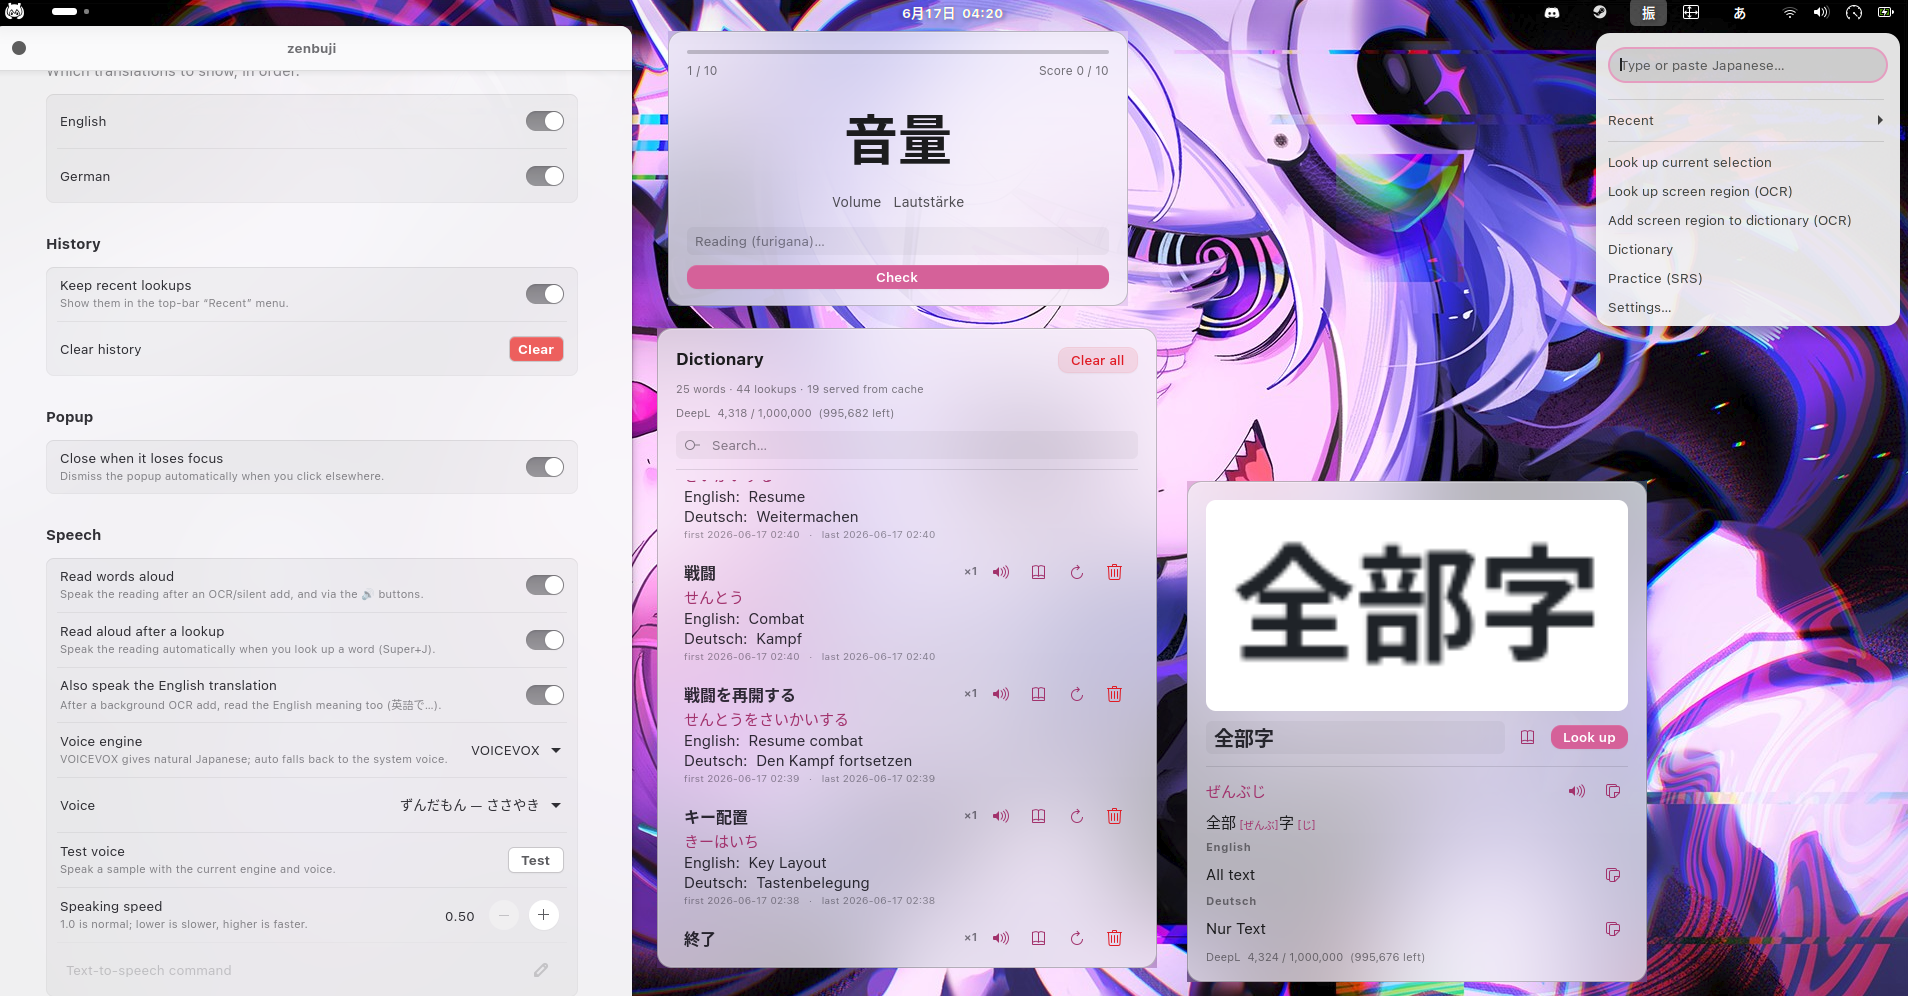
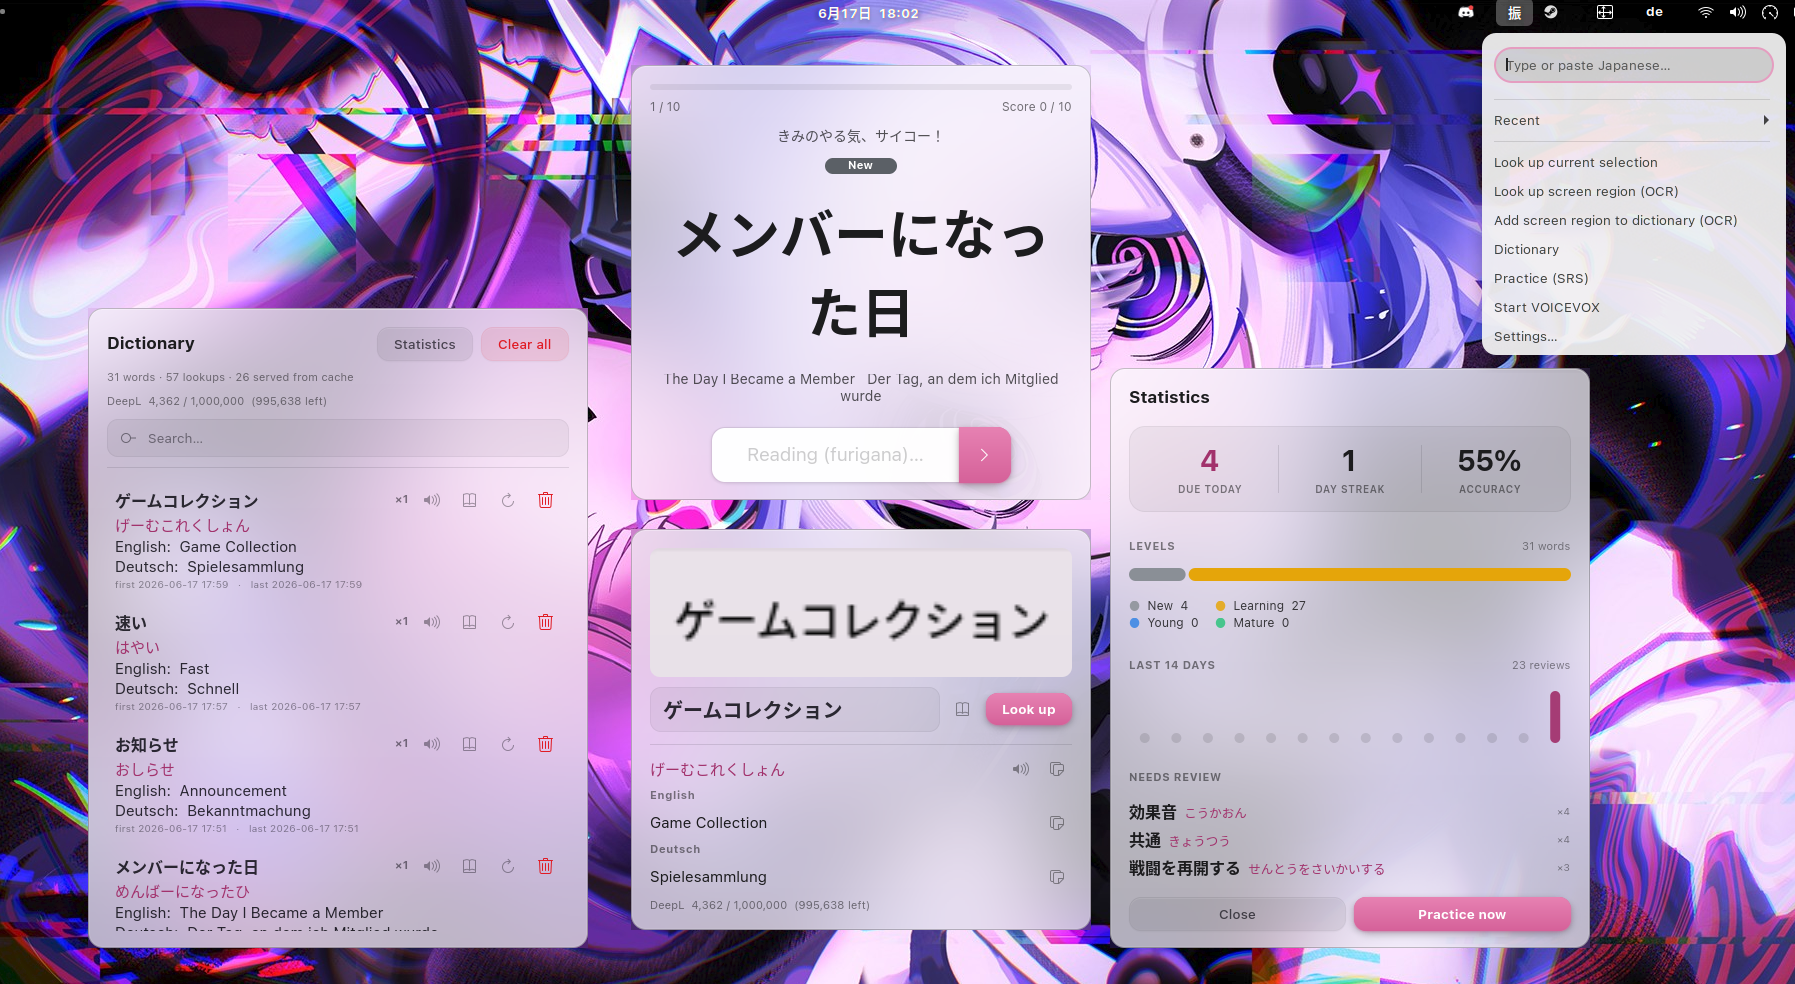
docs: refresh hero screenshot with statistics + redesigned quiz

diff --git a/README.md b/README.md
@@ -9,7 +9,7 @@ whatever you're doing. No alt-tabbing into a dictionary app, no breaking immersi
 middle of an episode. Works in your browser, your editor, a chat window — and even on text
 you *can't* select, because screen OCR has your back. (｡•̀ᴗ-)✧
 
-<img src="docs/overview.png" alt="zenbuji in action — lookup popup, dictionary, practice quiz, settings, and top-bar menu" width="900">
+<img src="docs/overview.png" alt="zenbuji in action — lookup popup, dictionary, practice quiz, statistics, and top-bar menu" width="900">
 
 <sub>Furigana from real word-level analysis (not lazy kana-by-kana guessing) · translation is offline-first · everything runs on your own machine.</sub>
 